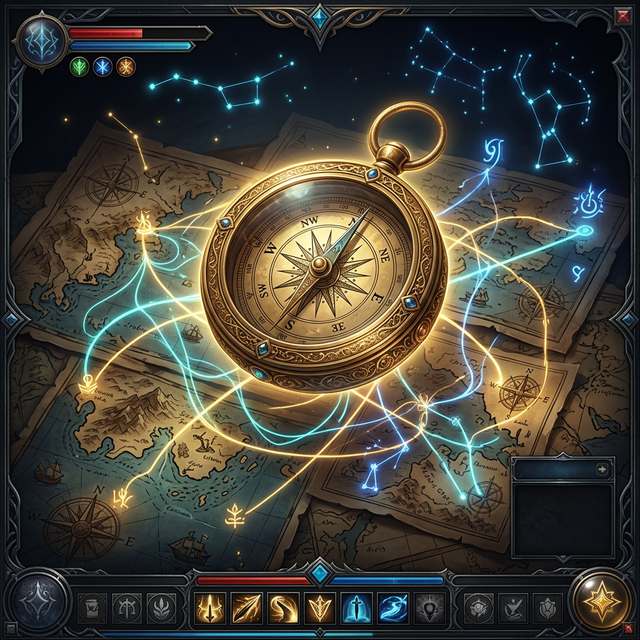
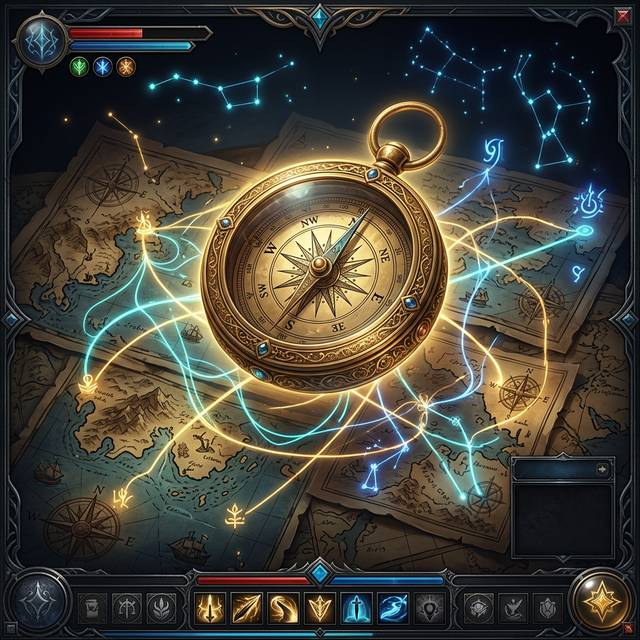
fix(radix): standard aion video background tag absolute layout

diff --git a/backend/static/jogos/js/radix.js b/backend/static/jogos/js/radix.js
@@ -32,13 +32,24 @@ document.addEventListener('DOMContentLoaded', async () => {
 
     window.startGame = async () => {
         if (loginGate) loginGate.classList.add('hidden');
-        if (playArea) playArea.classList.remove('hidden');
+        
+        const screenIntro = document.getElementById('screen-intro');
+        if (screenIntro) screenIntro.classList.remove('hidden');
+
+        if (playArea) playArea.classList.add('hidden'); // Forces play-area to stay hidden FIRST!
 
         try {
             await engine.startSession('radix', 'aprendiz');
         } catch (e) { }
 
-        loadWord();
+        const introSpeech = document.getElementById('intro-speech-bubble');
+        if (introSpeech) speakWord(introSpeech.innerText);
+
+        document.getElementById('btn-comencar-intro').onclick = () => {
+            if (screenIntro) screenIntro.classList.add('hidden');
+            if (playArea) playArea.classList.remove('hidden');
+            loadWord();
+        };
     };
 
     if (USER && USER.is_authenticated) {
@@ -70,8 +81,14 @@ document.addEventListener('DOMContentLoaded', async () => {
         window.speechSynthesis.cancel();
         const msg = new SpeechSynthesisUtterance(text);
         msg.lang = 'pt-BR';
-        msg.rate = 0.9;
-        msg.pitch = 1.35; // Aumenta pitch para parecer mais jovem (menino adolescente)
+        msg.rate = 0.95;
+        msg.pitch = 1.25; // Adjusted for a teen boy voice
+
+        // Enhance voice quality if better engines are available
+        const voices = window.speechSynthesis.getVoices();
+        const ptVoice = voices.find(v => v.lang.includes('pt-BR') && (v.name.includes('Google') || v.name.includes('Microsoft')));
+        if (ptVoice) msg.voice = ptVoice;
+
         window.speechSynthesis.speak(msg);
     }
 

diff --git a/backend/templates/jogos/radix.html b/backend/templates/jogos/radix.html
@@ -48,11 +48,12 @@
     <div id="game-container" class="rpg-game-container theme-aion relative overflow-hidden">
         
         <!-- AION ANIMATED BACKGROUND -->
-        <div class="absolute inset-0 pointer-events-none z-0">
-            <video autoplay muted loop playsinline class="w-full h-full object-cover opacity-25">
-                <source src="{% remote_video 'videos/aion-1080p.mp4' %}" type="video/mp4">
+        <div class="lyra-video-bg">
+            <video autoplay muted loop playsinline class="absolute top-0 left-0 w-full h-full object-cover z-0 opacity-30">
+                <source src="{% static 'img/personas/videoabertura.mp4' %}" type="video/mp4">
             </video>
         </div>
+
 
         <!-- ADDED: Intro Screen BEFORE game starts -->
         <div id="screen-intro" class="hidden absolute inset-0 flex flex-col items-center justify-center animate-fadeIn z-[999] bg-slate-100/30 backdrop-blur-md">

diff --git a/backend/templates/arkanos/parts/header.html b/backend/templates/arkanos/parts/header.html
@@ -8,7 +8,7 @@
       <div class="container main-bar-inner">
 
         <!-- LOGO AREA -->
-        <div class="logo-area" style="padding-left: 40px;">
+        <div class="logo-area">
           <a href="{% url 'arkanos:home' %}" class="logo-link">
             <img src="{% static 'img/icones/logo.png' %}" alt="Arkanos" class="logo-img">
           </a>
@@ -108,6 +108,9 @@
         justify-content: space-between;
         align-items: center;
         width: 100%;
+        max-width: 1280px !important;
+        margin: 0 auto !important;
+        padding: 0 40px !important;
         gap: 20px;
       }
 
@@ -221,7 +224,6 @@
         display: flex;
         align-items: center;
         gap: 20px;
-        padding-right: 40px;
       }
 
       .auth-buttons-premium {
